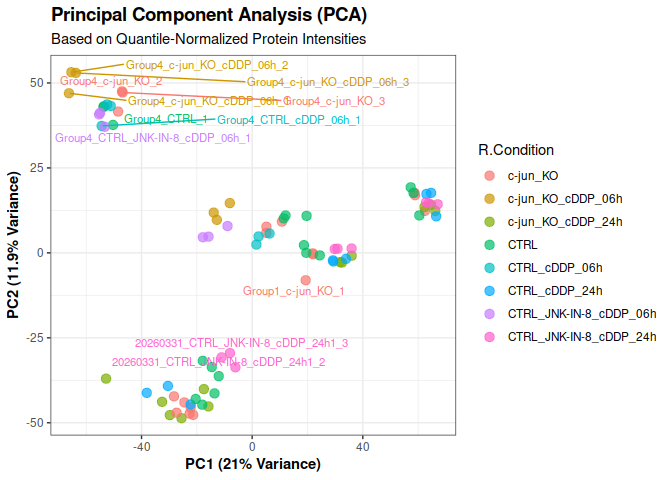
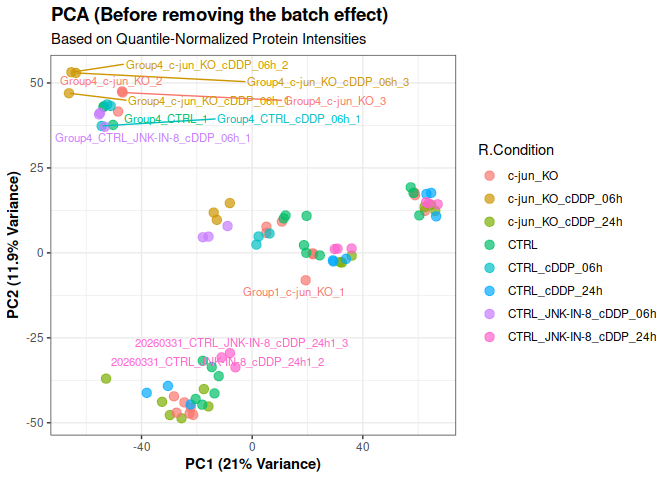
script.V1_updated

diff --git a/team3/SpectroNaut_analysis.md b/team3/SpectroNaut_analysis.md
@@ -25,7 +25,8 @@ df.main <- fread("./20260524/Filtered_Spectronaut_Report.tsv")
 
 df.main <- df.main %>%
   filter(!R.FileName%in%c("R.FileName", "Centroid"))%>%
-  mutate(SampleID = str_remove(R.FileName, "_[^_]*$"))%>%
+  mutate(SampleID = str_remove(R.FileName, "_[^_]*$"),
+         EG.IsDecoy = as.logical(toupper(EG.IsDecoy)))%>%
   as.data.frame()
 
 filenames <- strsplit(df.main$R.FileName, split = '_')
@@ -58,8 +59,8 @@ gc()
 ```
 
     ##             used   (Mb) gc trigger   (Mb)  max used   (Mb)
-    ## Ncells  47408418 2531.9  135977593 7262.0 100271738 5355.1
-    ## Vcells 434920396 3318.2  868138428 6623.4 868138426 6623.4
+    ## Ncells  47408558 2531.9  135976959 7262.0 100271401 5355.1
+    ## Vcells 425958712 3249.9  863018096 6584.4 863018093 6584.4
 
 ``` r
 colnames(df.main)
@@ -71,8 +72,6 @@ colnames(df.main)
     ## [10] "EG.IsDecoy"           "SampleID"             "group"               
     ## [13] "Rep"
 
-# Nr peptides
-
 ``` r
 metaData <- df.main %>%
   select(R.FileName, SampleID, R.Condition, group, Rep) %>%
@@ -82,6 +81,13 @@ metaData <- df.main %>%
   as.data.frame()
 
 
+write.csv(metaData, 'metaData.csv', row.names=FALSE)
+```
+
+# Nr peptides
+
+``` r
+#  metaData <- read.csv('metaData.csv')
 
 p <- ggplot(metaData, aes(y = Rep, x = SampleID, fill = NrPEP)) +
   geom_tile(color = "white", linewidth = 1) +
@@ -107,7 +113,14 @@ p <- ggplot(metaData, aes(y = Rep, x = SampleID, fill = NrPEP)) +
     x = "Sample",
     fill = "NrPEP"
   )
-#  ggsave("PCA_groups.png", p, width = 8, height = 5, dpi = 300)
+
+p
+```
+
+![](SpectroNaut_analysis_files/figure-gfm/unnamed-chunk-3-1.png)<!-- -->
+
+``` r
+#  ggsave("HeatMap_NrPEP.png", p, width = 8, height = 5, dpi = 300)
 ```
 
 # Decoy ~ Target
@@ -116,7 +129,6 @@ p <- ggplot(metaData, aes(y = Rep, x = SampleID, fill = NrPEP)) +
 df.main <- df.main %>%
   mutate(
   EG.Cscore = as.numeric(gsub(",", ".", EG.Cscore)),
-  EG.IsDecoy = as.logical(toupper(EG.IsDecoy)),
   EG.Cscore = as.numeric(EG.Cscore),
   group = as.factor(group),
   type = ifelse(EG.IsDecoy, "Decoy", "Target")
@@ -283,8 +295,8 @@ gc()
 ```
 
     ##             used   (Mb) gc trigger   (Mb)  max used   (Mb)
-    ## Ncells  36307206 1939.1  108782075 5809.6 100271738 5355.1
-    ## Vcells 391340350 2985.7  868138428 6623.4 868138426 6623.4
+    ## Ncells  36316913 1939.6  108781568 5809.6 100271401 5355.1
+    ## Vcells 391362025 2985.9  863018096 6584.4 863018093 6584.4
 
 # SE object
 
@@ -764,8 +776,8 @@ gc()
 ```
 
     ##            used  (Mb) gc trigger   (Mb)  max used   (Mb)
-    ## Ncells  7888688 421.4  104462792 5579.0 130578490 6973.7
-    ## Vcells 67443811 514.6  694510743 5298.7 868138428 6623.4
+    ## Ncells  7894941 421.7   83569844 4463.2 130577881 6973.7
+    ## Vcells 67457267 514.7  690414477 5267.5 863018096 6584.4
 
 # Missing Values
 
@@ -803,21 +815,12 @@ p_na
 # ggsave("missing_values_per_sample.png", p_na, width = 10, height = 6, dpi = 300)
 
 rm(na_df)
-gc
+gc()
 ```
 
-    ## function (verbose = getOption("verbose"), reset = FALSE, full = TRUE) 
-    ## {
-    ##     res <- .Internal(gc(verbose, reset, full))
-    ##     res <- matrix(res, 2L, 7L, dimnames = list(c("Ncells", "Vcells"), 
-    ##         c("used", "(Mb)", "gc trigger", "(Mb)", "limit (Mb)", 
-    ##             "max used", "(Mb)")))
-    ##     if (all(is.na(res[, 5L]))) 
-    ##         res[, -5L]
-    ##     else res
-    ## }
-    ## <bytecode: 0x55d3b4cdd800>
-    ## <environment: namespace:base>
+    ##            used  (Mb) gc trigger   (Mb)  max used   (Mb)
+    ## Ncells  7930228 423.6   66855876 3570.5 130577881 6973.7
+    ## Vcells 67552212 515.4  552331582 4214.0 863018096 6584.4
 
 # Imputation
 
@@ -942,8 +945,8 @@ gc()
 ```
 
     ##            used  (Mb) gc trigger   (Mb)  max used   (Mb)
-    ## Ncells  7922776 423.2   66856188 3570.6 130578490 6973.7
-    ## Vcells 84424298 644.2  444486876 3391.2 868138428 6623.4
+    ## Ncells  7925991 423.3   42787761 2285.2 130577881 6973.7
+    ## Vcells 84431806 644.2  442205505 3373.8 863018096 6584.4
 
 ``` r
 # -----------------------------------------------------
@@ -1025,8 +1028,8 @@ gc()
 ```
 
     ##            used  (Mb) gc trigger   (Mb)  max used   (Mb)
-    ## Ncells  7783374 415.7   53484951 2856.5 130578490 6973.7
-    ## Vcells 68766141 524.7  355589501 2713.0 868138428 6623.4
+    ## Ncells  7786586 415.9   34230209 1828.1 130577881 6973.7
+    ## Vcells 68773644 524.8  353764404 2699.1 863018096 6584.4
 
 # PEP to logNormPEP
 
@@ -1161,8 +1164,8 @@ gc()
 ```
 
     ##            used  (Mb) gc trigger   (Mb)  max used   (Mb)
-    ## Ncells  7850867 419.3   42787961 2285.2 130578490 6973.7
-    ## Vcells 88946632 678.7  284471601 2170.4 868138428 6623.4
+    ## Ncells  7854076 419.5   27384168 1462.5 130577881 6973.7
+    ## Vcells 88954133 678.7  283011524 2159.3 863018096 6584.4
 
 # quantile and vsn
 
@@ -1215,6 +1218,8 @@ plot(spectronaut_filtered)
 #  save(spectronaut_filtered, file = 'spectronaut_filtered.RData')
 
 #  knitr::include_graphics("QFeatures_Assay_Topology(Data_Processing_Tree).png")
+
+# saveRDS(spectronaut_filtered, 'spectronaut_filtered.RDS')
 ```
 
 # Comparison of normalization methods
@@ -1272,10 +1277,10 @@ gc()
 ```
 
     ##             used  (Mb) gc trigger   (Mb)  max used   (Mb)
-    ## Ncells   8160946 435.9   34230369 1828.1 130578490 6973.7
-    ## Vcells 124327187 948.6  285251447 2176.3 868138428 6623.4
+    ## Ncells   8164016 436.1   27384168 1462.5 130577881 6973.7
+    ## Vcells 124334347 948.6  283011524 2159.3 863018096 6584.4
 
-# PCA
+# PCA 1
 
 ``` r
 # --------------------------------------
@@ -1305,8 +1310,8 @@ gc()
 ```
 
     ##             used  (Mb) gc trigger   (Mb)  max used   (Mb)
-    ## Ncells   8050392 430.0   27384296 1462.5 130578490 6973.7
-    ## Vcells 123626543 943.2  285251447 2176.3 868138428 6623.4
+    ## Ncells   8053467 430.2   21907335 1170.0 130577881 6973.7
+    ## Vcells 123633701 943.3  283011524 2159.3 863018096 6584.4
 
 ``` r
 # ------------------------------------
@@ -1319,11 +1324,11 @@ pca_df <- as.data.frame(pca_result$x[,1:4]) %>%
   mutate(R.FileName = rownames(.)) %>%
   left_join(as.data.frame(colData(spectronaut_filtered)), by = "R.FileName")
 
-p <- ggplot(pca_df, aes(x = PC1, y = PC2, color = R.Condition, label = R.FileName)) +
+p_cond <- ggplot(pca_df, aes(x = PC1, y = PC2, color = R.Condition, label = R.FileName)) +
   geom_point(size = 3, alpha = 0.7) +
   geom_text_repel(size = 3, show.legend = FALSE) + 
   labs(
-    title = "Principal Component Analysis (PCA)",
+    title = "PCA (Before removing the batch effect)",
     subtitle = "Based on Quantile-Normalized Protein Intensities",
     x = paste0("PC1 (", pc1_var, "% Variance)"),
     y = paste0("PC2 (", pc2_var, "% Variance)")
@@ -1335,7 +1340,7 @@ p <- ggplot(pca_df, aes(x = PC1, y = PC2, color = R.Condition, label = R.FileNam
   )
 
 
-p
+p_cond
 ```
 
     ## Warning: ggrepel: 73 unlabeled data points (too many overlaps). Consider
@@ -1348,11 +1353,11 @@ p
 
 
 
-p <- ggplot(pca_df, aes(x = PC1, y = PC2, color = group, label = R.FileName)) +
+p_gr <- ggplot(pca_df, aes(x = PC1, y = PC2, color = group, label = R.FileName)) +
   geom_point(size = 3, alpha = 0.7) +
   geom_text_repel(size = 3, show.legend = FALSE) + 
   labs(
-    title = "Principal Component Analysis (PCA)",
+    title = "PCA (Before removing the batch effect)",
     subtitle = "Based on Quantile-Normalized Protein Intensities",
     x = paste0("PC1 (", pc1_var, "% Variance)"),
     y = paste0("PC2 (", pc2_var, "% Variance)")
@@ -1364,7 +1369,7 @@ p <- ggplot(pca_df, aes(x = PC1, y = PC2, color = group, label = R.FileName)) +
   )
 
 
-p
+p_gr
 ```
 
     ## Warning: ggrepel: 73 unlabeled data points (too many overlaps). Consider
@@ -1375,3 +1380,74 @@ p
 ``` r
 #  ggsave("PCA_groups.png", p, width = 8, height = 5, dpi = 300)
 ```
+
+# PCA 2
+
+``` r
+mat <- assay(spectronaut_filtered[["proteins2"]])
+mat_complete <- mat[rowSums(is.na(mat)) == 0, ]
+
+batch_labels <- colData(spectronaut_filtered)[colnames(mat_complete), "group"]
+
+mat_corrected <- removeBatchEffect(mat_complete, batch = batch_labels)
+
+mat_transposed <- t(mat_corrected)
+pca_result <- prcomp(mat_transposed, scale. = TRUE)
+
+var_explained <- (pca_result$sdev^2) / sum(pca_result$sdev^2) * 100
+pc1_var <- round(var_explained[1], 1)
+pc2_var <- round(var_explained[2], 1)
+
+pca_df <- as.data.frame(pca_result$x[,1:4]) %>%
+  mutate(R.FileName = rownames(.)) %>%
+  left_join(as.data.frame(colData(spectronaut_filtered)), by = "R.FileName")
+
+p_cond <- ggplot(pca_df, aes(x = PC1, y = PC2, color = R.Condition, label = R.FileName)) +
+  geom_point(size = 3, alpha = 0.7) +
+  geom_text_repel(size = 3, show.legend = FALSE) + 
+  labs(
+    title = "PCA (After removing the batch effect)",
+    subtitle = "Batch-Corrected Quantile-Normalized Intensities",
+    x = paste0("PC1 (", pc1_var, "% Variance)"),
+    y = paste0("PC2 (", pc2_var, "% Variance)")
+  ) +
+  theme_bw() +
+  theme(
+    plot.title = element_text(face = "bold", size = 14),
+    axis.title = element_text(face = "bold")
+  )
+
+
+
+p_cond
+```
+
+    ## Warning: ggrepel: 69 unlabeled data points (too many overlaps). Consider
+    ## increasing max.overlaps
+
+![](SpectroNaut_analysis_files/figure-gfm/unnamed-chunk-15-1.png)<!-- -->
+
+``` r
+p_gr <- ggplot(pca_df, aes(x = PC1, y = PC2, color = group, label = R.FileName)) +
+  geom_point(size = 3, alpha = 0.7) +
+  geom_text_repel(size = 3, show.legend = FALSE) + 
+  labs(
+    title = "PCA (After removing the batch effect)",
+    subtitle = "Batch-Corrected Quantile-Normalized Intensities",
+    x = paste0("PC1 (", pc1_var, "% Variance)"),
+    y = paste0("PC2 (", pc2_var, "% Variance)")
+  ) +
+  theme_bw() +
+  theme(
+    plot.title = element_text(face = "bold", size = 14),
+    axis.title = element_text(face = "bold")
+  )
+
+
+p_gr
+```
+
+    ## Warning: ggrepel: 69 unlabeled data points (too many overlaps). Consider
+    ## increasing max.overlaps
+
+![](SpectroNaut_analysis_files/figure-gfm/unnamed-chunk-15-2.png)<!-- -->